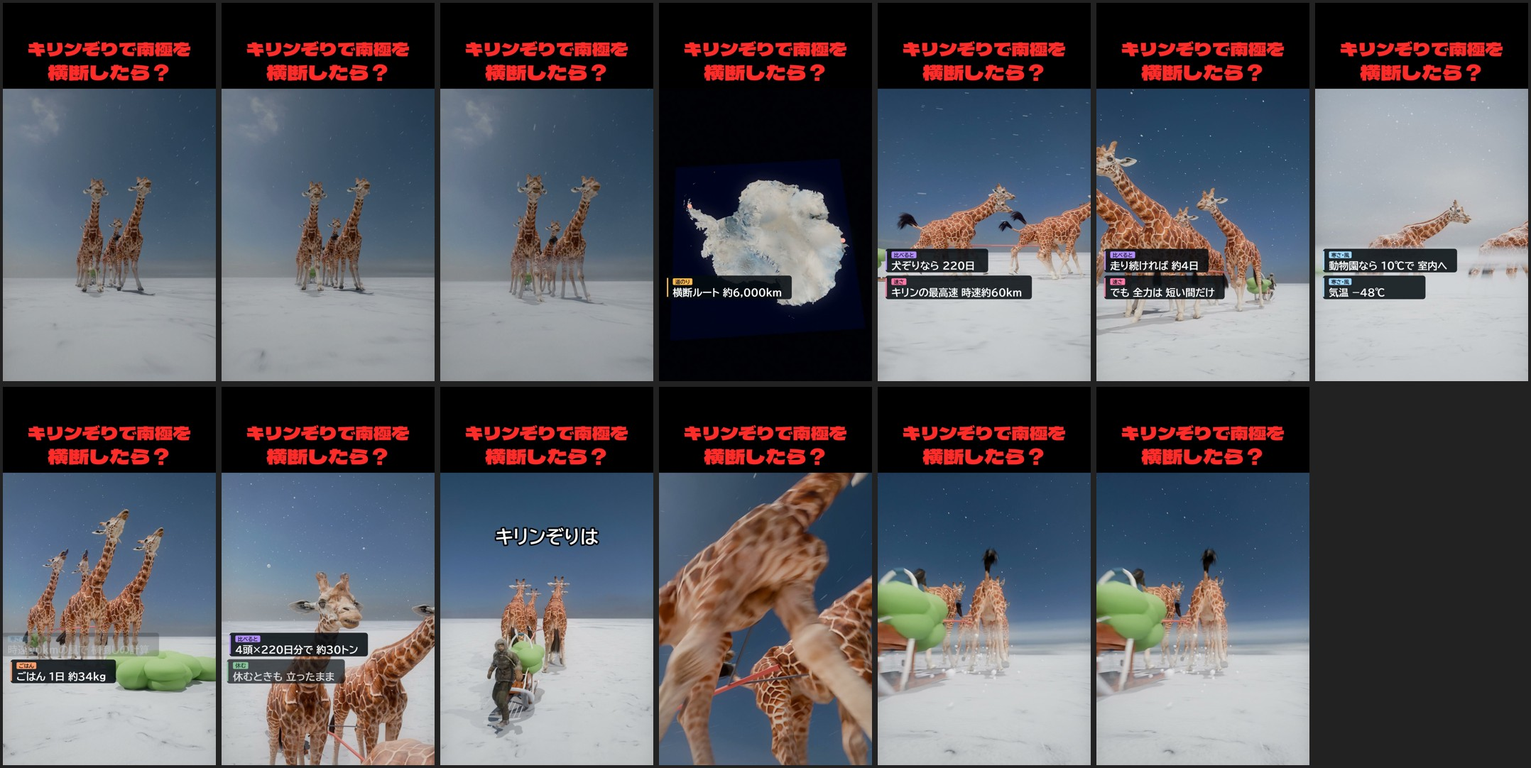
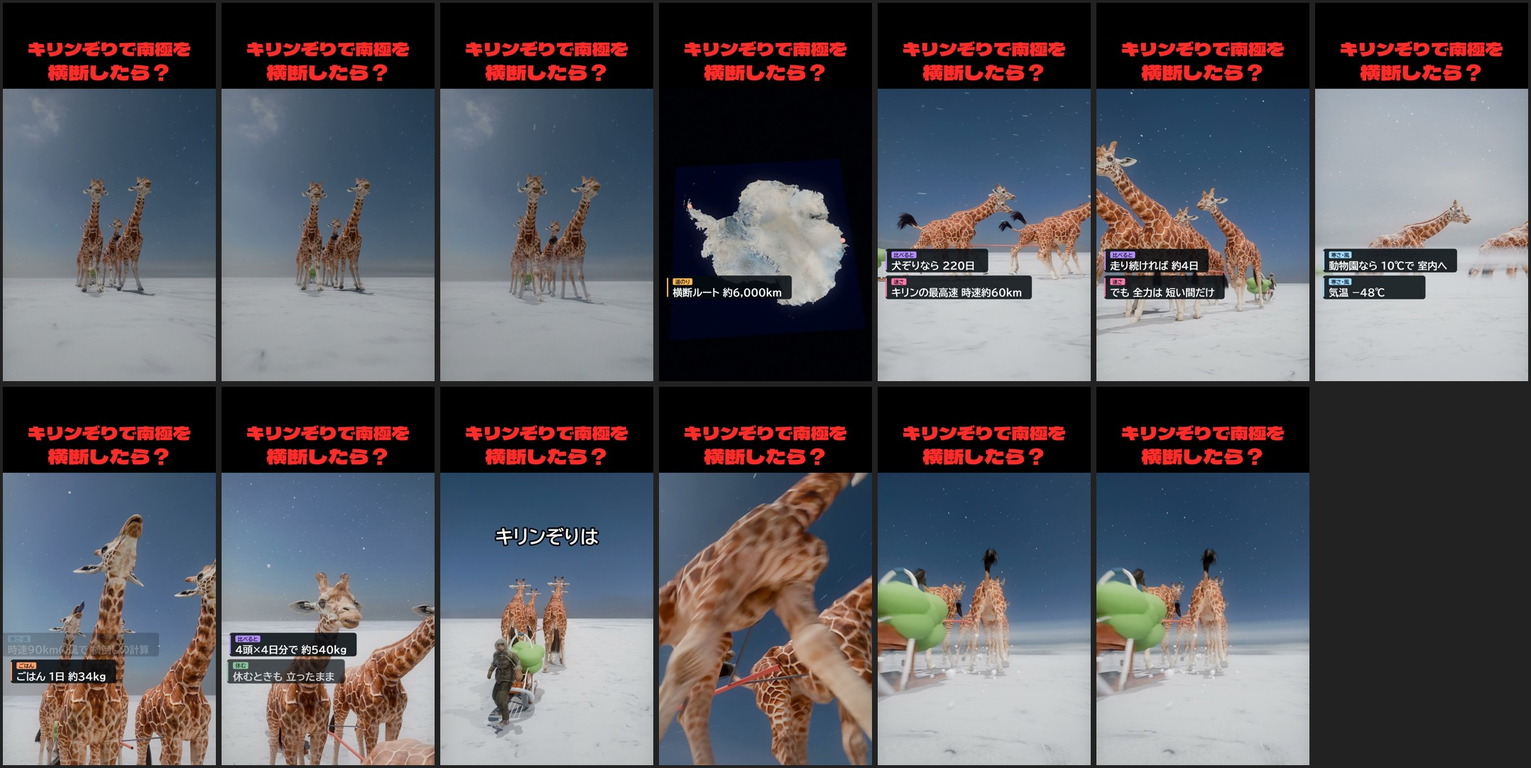
pilot_058 v2：エサを 4 頭×4 日分（約 540kg）に直し、葉っぱの山で見せる
Claude-Session: https://claude.ai/code/session_01VGYENiSWVu6GBGzfbDjQdM

Changed region(s): [[0.0, 0.671, 0.2486, 1.0], [0.0, 0.61, 0.0311, 0.671]]

diff --git a/anatomy_room/production/pilot_058/assets/plan.js b/anatomy_room/production/pilot_058/assets/plan.js
@@ -1,1 +1,1 @@
-window.PLAN = {"shots": [{"id": "l00", "dur": 3.6, "what": "0 秒目：地吹雪の中、正面の低い位置へ迫ってくる 4 頭のキリンが引くそり", "ev": [[0.3, "キリンぞりで 南極を横断したら？", "S"]]}, {"id": "l01", "dur": 5.0, "what": "南極大陸の衛星画像（NASA Blue Marble、PD）に横断ルート", "ev": [[0.3, "横断ルート 約6,000km", "D"], [2.6, "犬ぞりなら 220日", "C"]]}, {"id": "l02", "dur": 5.0, "what": "速さ：横から並走、全力で駆けるキリン", "ev": [[0.4, "キリンの最高速 時速約60km", "V"], [2.4, "走り続ければ 約4日", "C"]]}, {"id": "l03", "dur": 5.0, "what": "でも：歩きに変わるキリン、寒さ", "ev": [[0.4, "でも 全力は 短い間だけ", "V"], [2.4, "動物園なら 10℃で 室内へ", "W"]]}, {"id": "l04", "dur": 5.4, "what": "厳しさ：曇り空の地吹雪、高い首が風を受ける", "ev": [[0.4, "気温 −48℃", "W"], [2.5, "時速90kmの風で 横倒しの計算", "W"]]}, {"id": "l05", "dur": 5.4, "what": "ごはん：前におろした葉っぱの山と、上を向いて食べようとするキリン（木がない）", "ev": [[0.4, "ごはん 1日 約34kg", "F"], [2.0, "南極に 木は 1本もない", "F"], [3.6, "4頭×220日分で 約30トン", "C"]]}, {"id": "l06", "dur": 5.6, "what": "癒やし：休憩。立ったまま口をもぐもぐ（反すう）するキリンに雪が積もる", "ev": [[0.5, "休むときも 立ったまま", "Z"], [2.8, "長い首に 雪が 積もっていく", "Z"]]}, {"id": "l07", "dur": 4.4, "what": "結果（大きな札）", "card": "result"}, {"id": "l08", "dur": 2.0, "what": "冒頭に戻る（ループ）"}], "sim": {"route_km": 6000, "dog_days": 220, "vmax": 60, "days_at_vmax": 4.166666666666667, "food": 34, "n": 4, "food_total_t": 29.92, "zoo_c": 10, "tmin": -48, "colder": 58, "rho": 1.0985728107948551, "tip_kmh": 90.28424292885217}};
+window.PLAN = {"shots": [{"id": "l00", "dur": 3.6, "what": "0 秒目：地吹雪の中、正面の低い位置へ迫ってくる 4 頭のキリンが引くそり", "ev": [[0.3, "キリンぞりで 南極を横断したら？", "S"]]}, {"id": "l01", "dur": 5.0, "what": "南極大陸の衛星画像（NASA Blue Marble、PD）に横断ルート", "ev": [[0.3, "横断ルート 約6,000km", "D"], [2.6, "犬ぞりなら 220日", "C"]]}, {"id": "l02", "dur": 5.0, "what": "速さ：横から並走、全力で駆けるキリン", "ev": [[0.4, "キリンの最高速 時速約60km", "V"], [2.4, "走り続ければ 約4日", "C"]]}, {"id": "l03", "dur": 5.0, "what": "でも：歩きに変わるキリン、寒さ", "ev": [[0.4, "でも 全力は 短い間だけ", "V"], [2.4, "動物園なら 10℃で 室内へ", "W"]]}, {"id": "l04", "dur": 5.4, "what": "厳しさ：曇り空の地吹雪、高い首が風を受ける", "ev": [[0.4, "気温 −48℃", "W"], [2.5, "時速90kmの風で 横倒しの計算", "W"]]}, {"id": "l05", "dur": 5.4, "what": "ごはん：上を向いて食べようとするキリン（木がない）から引いて、4 頭×4 日分のエサの山（約 540 kg、人の背より高い）", "ev": [[0.4, "ごはん 1日 約34kg", "F"], [2.0, "南極に 木は 1本もない", "F"], [3.4, "4頭×4日分で 約540kg", "C"]]}, {"id": "l06", "dur": 5.6, "what": "癒やし：休憩。立ったまま口をもぐもぐ（反すう）するキリンに雪が積もる", "ev": [[0.5, "休むときも 立ったまま", "Z"], [2.8, "長い首に 雪が 積もっていく", "Z"]]}, {"id": "l07", "dur": 4.4, "what": "結果（大きな札）", "card": "result"}, {"id": "l08", "dur": 2.0, "what": "冒頭に戻る（ループ）"}], "sim": {"route_km": 6000, "dog_days": 220, "vmax": 60, "days_at_vmax": 4.166666666666667, "food": 34, "n": 4, "food_total_kg": 544, "zoo_c": 10, "tmin": -48, "colder": 58, "rho": 1.0985728107948551, "tip_kmh": 90.28424292885217}};

diff --git a/anatomy_room/production/pilot_058/renderer.html b/anatomy_room/production/pilot_058/renderer.html
@@ -89,7 +89,7 @@ function shoutCard(t, a, l1, l2, c1, c2, sub) {
 }
 { const _du = drawUI; drawUI = function (t, name) { titleBar(); if (name === "open") return;
   const k = curId(t); eventsUI(t);
-  if (k === "l07") shoutCard(t, CUE.l07 + .15, "キリンぞりは", "寒さに弱すぎる", "#FFFFFF", "#FFD23C", ["全力なら 約4日 でも続かない", "ごはんは 約30トン"]); }; }
+  if (k === "l07") shoutCard(t, CUE.l07 + .15, "キリンぞりは", "寒さに弱すぎる", "#FFFFFF", "#FFD23C", ["全力なら 約4日 でも続かない", "4日分のごはんで 約540kg"]); }; }
 
 function buildMood() { MOOD = [[0, { cool: .0, sat: 1.05, vig: .22 }]]; }
 function thumb() { CUE = CUE || {}; CUE.t0 = 0; bg.fillStyle = "#0c1018"; bg.fillRect(0, 0, W, H); S.group(() => { text(ui, "キリンぞりで南極を", 540, 450, 96, "#EAF2F8", { weight: 700, stroke: "#05080c", sw: 14 }); text(ui, "横断したら？", 540, 600, 110, "#FFD23C", { weight: 700, stroke: "#05080c", sw: 16 }); }); }

diff --git a/anatomy_room/production/pilot_058/blender/scene.py b/anatomy_room/production/pilot_058/blender/scene.py
@@ -370,20 +370,48 @@ def a_l04(u, t, f):
     cam.look(Vector((-2.0 + 2.0 * u, -2.5, gz(-2, -2.5) + 1.4)), Vector((x + 4.0, 12.0, gz(x, 12) + 3.0)), 30)
 
 
+HEAP = (3.6, 12.5, 2.4, 2.1)     # 4 頭×4 日分のエサ（約 540 kg）の山：中心 x・y、半径、高さ（かさ 約 13 m³。葉のついた枝はすき間が多い、仮定）
+
+
+def leaf_mats():
+    ms = []
+    for k, c in enumerate(((.05, .16, .03), (.08, .22, .04), (.12, .26, .05), (.17, .25, .06))):
+        m = mat(f"leaf{k}", c, .6); b = m.node_tree.nodes.get("Principled BSDF"); t = m.node_tree
+        if b:                                                                  # 葉の細かい凹凸
+            nz = t.nodes.new("ShaderNodeTexNoise"); nz.inputs["Scale"].default_value = 60.0; bp = t.nodes.new("ShaderNodeBump"); bp.inputs["Strength"].default_value = .6
+            t.links.new(nz.outputs["Fac"], bp.inputs["Height"]); t.links.new(bp.outputs["Normal"], b.inputs["Normal"])
+        if b:
+            b.inputs["Subsurface Weight"].default_value = .15
+        ms.append(m)
+    return ms
+
+
+def heap():
+    """葉っぱの山：枝の束（つぶれた球）を円すいに積み、表面に葉っぱの板をびっしり"""
+    cx, cy, R, H = HEAP; r = np.random.default_rng(21); ms = leaf_mats(); z0 = gz(cx, cy)
+    xf, mi = [], []
+    for k in range(420):                                                    # 枝の束
+        a = r.uniform(0, 6.283); q = np.sqrt(r.uniform(0, 1)); rr = R * q; h = H * (1 - q) * r.uniform(.75, 1.0)
+        xf.append((cx + rr * math.cos(a), cy + rr * math.sin(a), z0 + h * r.uniform(.85, 1.0) + .1, r.uniform(.3, .5), r.uniform(.25, .45), r.uniform(.15, .28), r.uniform(0, 6.28), r.uniform(-.3, .3), r.uniform(-.3, .3))); mi.append(k % 4)
+    import common as _c; tv, tf = _c._template("ico"); ob = instances("bundles", tv, tf, xf, ms, np.array(mi)); ob.data.polygons.foreach_set("use_smooth", np.ones(len(ob.data.polygons), bool))
+    xf, mi = [], []
+    for k in range(12000):                                                  # 表面の葉っぱ
+        a = r.uniform(0, 6.283); q = np.sqrt(r.uniform(0, 1)) * 1.05; rr = R * min(q, 1.05); h = max(0.0, H * (1 - q)) + r.uniform(0, .15)
+        xf.append((cx + rr * math.cos(a), cy + rr * math.sin(a), z0 + h + .1, .13, .065, .004, r.uniform(0, 6.28), r.uniform(-1.2, 1.2), r.uniform(-1.2, 1.2))); mi.append(r.integers(0, 4))
+    instances("leaves", CUBE_V, CUBE_F, xf, ms, np.array(mi))
+
+
 def s_l05():
-    plateau(sun=(20., 330.), haze_k=.5); S["spd"] = 0.0; team(kind="eat", seed=6, musher=False)
-    leaf = MATS.get("leafbale") or mat("leafbale", (.16, .32, .08), .85); r2 = np.random.default_rng(9)
-    for k in range(22):                                                      # 前におろした葉っぱの山
-        bm = bmesh.new(); bmesh.ops.create_icosphere(bm, subdivisions=2, radius=1.0); o = mesh_obj(f"pile{k}", bm, [leaf])
-        x, y = r2.uniform(-1.6, 1.6), r2.uniform(10.5, 13.0); o.location = (x, y, gz(x, y) + r2.uniform(.1, .5)); o.scale = (r2.uniform(.35, .6), r2.uniform(.35, .6), r2.uniform(.25, .4))
-        for p_ in o.data.polygons:
-            p_.use_smooth = True
-    flakes(2000, (-12, 12, -12, 12, 0, 9), (.8, .3), .6, (.005, .012), 9)
+    plateau(sun=(20., 330.), haze_k=.5); S["spd"] = 0.0; team(kind="eat", seed=6, musher=False); heap()
+    mn = imp(os.path.join(SKF, "explorer", "scene.gltf")); mh = fit(mn, height=1.75, axis=2); x, y = HEAP[0] + 2.5, HEAP[1] - 1.5
+    mh.location = (x, y, gz(x, y)); mh.rotation_euler = (0, 0, 2.4)                                  # 大きさ比べの人（身長 1.75 m）
+    flakes(2000, (-12, 14, -12, 22, 0, 9), (.8, .3), .6, (.005, .012), 9)
 
 
 def a_l05(u, t, f):
-    team_key(f, 0, 0); e = ease(u)
-    cam.look(Vector((5.5 - 1.0 * e, 17.5 - 1.0 * e, gz(5, 17) + 1.3)), Vector((0, 8.5, gz(0, 9) + 1.8 + .8 * e)), 26)         # 前から：葉っぱの山と、食べるキリン
+    team_key(f, 0, 0); e = ease(smooth(.15, .85, u))
+    p0, a0 = Vector((2.2, 14.5, 2.6)), Vector((0, 6.5, 4.6)); p1, a1 = Vector((7.6, 18.6, .9)), Vector((4.6, 11.0, 1.6))
+    cy = gz(p0.x, p0.y); cam.look(p0.lerp(p1, e) + Vector((0, 0, cy)), a0.lerp(a1, e) + Vector((0, 0, cy)), 30 - 6 * e)   # 上を向いて食べるキリンから、引いてエサの山へ
 
 
 def s_l06():

diff --git a/anatomy_room/production/pilot_058/plan.py b/anatomy_room/production/pilot_058/plan.py
@@ -21,7 +21,7 @@ SHOTS = [
     dict(id="l02", dur=5.0, what="速さ：横から並走、全力で駆けるキリン", ev=[[.4, f"キリンの最高速 時速約{O['vmax']}km", "V"], [2.4, f"走り続ければ 約{O['days_at_vmax']:.0f}日", "C"]]),
     dict(id="l03", dur=5.0, what="でも：歩きに変わるキリン、寒さ", ev=[[.4, "でも 全力は 短い間だけ", "V"], [2.4, f"動物園なら {O['zoo_c']}℃で 室内へ", "W"]]),
     dict(id="l04", dur=5.4, what="厳しさ：曇り空の地吹雪、高い首が風を受ける", ev=[[.4, f"気温 −{abs(O['tmin'])}℃", "W"], [2.5, f"時速{round(O['tip_kmh'], -1):.0f}kmの風で 横倒しの計算", "W"]]),
-    dict(id="l05", dur=5.4, what="ごはん：前におろした葉っぱの山と、上を向いて食べようとするキリン（木がない）", ev=[[.4, f"ごはん 1日 約{O['food']}kg", "F"], [2.0, "南極に 木は 1本もない", "F"], [3.6, f"{O['n']}頭×{O['dog_days']}日分で 約{O['food_total_t']:.0f}トン", "C"]]),
+    dict(id="l05", dur=5.4, what="ごはん：上を向いて食べようとするキリン（木がない）から引いて、4 頭×4 日分のエサの山（約 540 kg、人の背より高い）", ev=[[.4, f"ごはん 1日 約{O['food']}kg", "F"], [2.0, "南極に 木は 1本もない", "F"], [3.4, f"{O['n']}頭×{O['days_at_vmax']:.0f}日分で 約{round(O['food_total_kg'], -1):.0f}kg", "C"]]),
     dict(id="l06", dur=5.6, what="癒やし：休憩。立ったまま口をもぐもぐ（反すう）するキリンに雪が積もる", ev=[[.5, "休むときも 立ったまま", "Z"], [2.8, "長い首に 雪が 積もっていく", "Z"]]),
     dict(id="l07", dur=4.4, what="結果（大きな札）", card="result"),
     dict(id="l08", dur=2.0, what="冒頭に戻る（ループ）"),

diff --git a/anatomy_room/production/pilot_058/production_script.py b/anatomy_room/production/pilot_058/production_script.py
@@ -163,7 +163,7 @@ EP = standard.config({
     "scenes": [(f"{i} {s['id']}", s["id"] if i else None, SHOTS[i + 1]["id"] if i + 1 < len(SHOTS) else "endcard", "", "") for i, s in enumerate(SHOTS)]
               + [(f"{len(SHOTS)} 暗転（エンディングなし）", "endcard", None, "", "")],
     "plan_notes": ["## 演出の方針", "", "- もしも設計の既定（タイトルの帯つき、画面は昼）。ナレーション・BGM なし。pilot_057（犬ぞり、220 日）の続きで、キリン 4 頭がそりを引いたら。",
-                   "- 最高速 時速約 60 km なら約 4 日、でも全力は短い間だけ。動物園では 10℃ で室内へ、−48℃。背が高く、時速約 90 km の横風で倒れる計算（倒れる姿は描かない）。ごはん 1 日約 34 kg、南極に木はない、4 頭×220 日で約 30 トン。休むときも立ったまま。閃光なし。"],
+                   "- 最高速 時速約 60 km なら約 4 日、でも全力は短い間だけ。動物園では 10℃ で室内へ、−48℃。背が高く、時速約 90 km の横風で倒れる計算（倒れる姿は描かない）。ごはん 1 日約 34 kg、南極に木はない、4 頭×4 日分で約 540 kg（葉っぱの山で見せる）。休むときも立ったまま。閃光なし。"],
 })
 
 if __name__ == "__main__":

diff --git a/anatomy_room/HANDOFF.md b/anatomy_room/HANDOFF.md
@@ -6,7 +6,7 @@
 
 - **pilot_051「猫 何匹で、新幹線は動く？」完成（2026-11-12 17:45）**：`production/pilot_051/reverse_051_cats_shinkansen.mp4`（56.6 秒、142 MB のため git に入れない）。QA の NG は字幕・共通エンディングだけ。説明文 `youtube_metadata.md`、素材 `scripts/pilot_051/assets.md`。3D は `blender/scene.py`（track・train・crowd・cat）、Blender の書き出しは 1 コマ約 14 秒で約 7 時間。l06 の終わりの空撮は田んぼの区画が人工的に見える（052 の課題）。**2026-11-14 19:00 に予約公開**（050 は 11/13 19:00）。スマホ用の試写ページ https://claude.ai/artifact/UcebGY2ERqAVB4UCNQ7neh （`work/preview/`）。サムネイル・自己レビューはまだ。
 - **【相談】書き出しの速さはユーザーと改めて検討する（2026-11-12、051 は 1 コマ約 15 秒で約 6 時間かかった。メモリ `feedback-time-budget` に実測）**。
-- **pilot_058「キリンぞりで南極を横断したら？」完成（2026-11-16 夜、もしも設計、057 の続き）**：`production/pilot_058/reverse_058_giraffe_sled.mp4`（42.5 秒）。ユーザー「犬ぞりじゃなくてキリンぞりにしたら？で動画作ってみて」。057 の舞台（scene.py の plateau・地図・地吹雪）を使い回し、キリンは Sketchfab "Reticulated Giraffe - Rigged & Animated"（Animal Animator、CC BY、走る・歩く・反すう・食べる、slot は 1 つ）を 4 頭。数字は scripts/pilot_058/sim/giraffe.py（最高速 60 km/h で約 4 日、10℃ で室内へ、横風 時速約 90 km で倒れる計算〔仮定つき〕、エサ 34 kg×4×220 ＝約 30 t）。HDRI の太陽が画面に入るショットは plateau(rot=180)。準備 約 50 分＋書き出し。queue.json には未登録。
+- **pilot_058「キリンぞりで南極を横断したら？」完成（2026-11-16 夜、もしも設計、057 の続き）**：`production/pilot_058/reverse_058_giraffe_sled.mp4`（42.5 秒）。ユーザー「犬ぞりじゃなくてキリンぞりにしたら？で動画作ってみて」。057 の舞台（scene.py の plateau・地図・地吹雪）を使い回し、キリンは Sketchfab "Reticulated Giraffe - Rigged & Animated"（Animal Animator、CC BY、走る・歩く・反すう・食べる、slot は 1 つ）を 4 頭。数字は scripts/pilot_058/sim/giraffe.py（最高速 60 km/h で約 4 日、10℃ で室内へ、横風 時速約 90 km で倒れる計算〔仮定つき〕、エサ 34 kg×4 頭×4 日＝約 540 kg、ユーザーの指示で 220 日分から直し、l05 で人の背より高い葉っぱの山を見せる）。HDRI の太陽が画面に入るショットは plateau(rot=180)。準備 約 50 分＋書き出し。queue.json には未登録。
 - **pilot_057「犬ぞりで南極を横断したら？」完成（2026-11-16 夕方、通常のもしも設計）**：`production/pilot_057/reverse_057_dogsled.mp4`（42.9 秒、ナレーション・BGM なし）。ユーザーの指示「南極を犬ぞりで横断したら？…大きさと厳しさ、犬の健気さと可愛さを全力のCGで」。答えは 1989–90 国際南極横断隊（約 6,000 km・220 日、−48℃・時速 160 km の風）。走る犬は Sketchfab "Dog animated"（MAXDESIGN-3D、CC BY）をハスキーの毛色に塗り替えて 10 頭複製（glTF の動きは Bip001 と骨の 2 つの slot：NLA は両方に、slot を合わせないと寝た形になる。毛色の塗り分けは Generated の Z、つやを下げないと雪の照り返しで白く見えた、露出 −0.45）。休憩は "Wolf in the cold"（David Florez、CC BY）の座る犬だけを取り出し雪を積もらせた（丸まって眠る模型は質が足りず不採用）。地図は NASA Blue Marble の南極（PD）。1 コマ約 3.5 秒。最初のコマがやや柔らかい（video_qa「最初のコマ」要確認）。queue.json には未登録（ユーザーの感想待ち。次の空き枠は 11/19 19:00）。作業は約 5 時間で見込み超え。
 - **pilot_056「頭のプロペラで、空を飛んだら？」完成（2026-11-16 10:00、通常のもしも設計）**：`production/pilot_056/reverse_056_head_propeller.mp4`（41.7 秒、ナレーション・BGM なし）。ユーザーが 5 案から 1（頭のプロペラ）を選んだ。作品名・キャラクター・道具の名前は出さない。運動量理論（scripts/pilot_056/sim/rotor.py）：体重 35 kg・直径 20 cm → 足もとの風 時速約 490 km（猛烈な台風の 2.5 倍）、約 64 馬力（軽自動車の上限）、反動で体が逆に回る（1 秒後に毎秒約 8 回転〔7.5〕、3 秒後 23 回転）。3D は 055 の Puppet＋空き地・土管・Sketchfab の車（"Small price car" Oliv1e、CC BY）、砂ぼこりのカードは二次光線から隠して 1 コマ約 6 秒。l07 の結果札がはみ出し（textcheck）→ 文を短くした。queue.json には未登録（ユーザーの感想待ち。次の空き枠は 11/18 19:00）。
 - **pilot_055「10万ボルトの電撃が、現実にあったら？」完成（2026-11-15 12:55、通常のもしも設計に戻した回）**：`production/pilot_055/reverse_055_100kv.mp4`（46.3 秒、ナレーション・BGM なし）。ユーザーの指示「漫画・アニメの必殺技が現実にあったら」→ ポケモンの 10 万ボルトを選んだ（作品名・キャラクター・技の絵は出さず、電圧の数字として。電気を出すのは黄色い服のピクトグラム）。空気は 1 cm に約 3 万 V で火花（schoolphysics 本文）→ 届くのは約 3 cm、5 m 先には約 1,500 万 V（ユーザーの追加の指示で l05b「もし 1,500 万ボルトなら」）。3D は自作の関節つきピクトグラム（Puppet）・木の的・光る折れ線の電気・Poly Haven の木、1 コマ約 2.5 秒。的の親子付けで位置が 2 倍になるずれ（view_layer.update を先に）を直した。queue.json には未登録（ユーザーの感想待ち）。**2026-11-15 夜の直し**：ユーザー「電撃を放つのは人じゃなくて黄色い小さい犬みたいな動物に」「タイトル帯のフォントが崩れてる」→ Sketchfab の "Shiba Inu Doggy"（aaadragon、CC BY）を黄色にして鼻先から火花（赤いほっぺ・稲妻のしっぽなし）。帯の崩れは make_assets.py の帯の字が 053 の題名のまま固定だったため（renderer.html の title から拾うように直した。054 も同じだった）。Blender は 1 プロセスで複数ショットを描くと犬の読み込み直しで止まったので、ショットごとに別のプロセスで描いた。NLA の 2 本目の strip は Blender 5 で action_slot を付けないと元の形（寝た形）になる。書き出しのあと接続が切れて PC が止まり、mp4・音声の wav・検査画像の一部が 0 で埋まって壊れた（3D のコマは無事）→ rv --full で作り直し、全体を ffmpeg で読んでエラーなしを確認。

diff --git a/anatomy_room/production/pilot_058/qc_report.md b/anatomy_room/production/pilot_058/qc_report.md
@@ -1,6 +1,6 @@
 # pilot_058 品質検証の記録
 
-対象：`reverse_058_giraffe_sled.mp4`（37.6 MB）
+対象：`reverse_058_giraffe_sled.mp4`（38.2 MB）
 
 ## ストリーム
 
@@ -16,7 +16,7 @@
 
 - 積分ラウドネス：-14.4 LUFS（目標 −14 LUFS）
 - ラウドネスレンジ：9.0 LU
-- トゥルーピーク：0.3 dBFS（目標 −1.0 dBTP 以下）
+- トゥルーピーク：-0.7 dBFS（目標 −1.0 dBTP 以下）
 
 ## 無音区間（−45 dB 未満が 0.8 秒以上）
 
@@ -31,10 +31,10 @@
 | L02 | ナレーション | 0:08.6 | -19.3 | -3.4 |
 | L03 | ナレーション | 0:13.6 | -17.7 | -3.8 |
 | L04 | ナレーション | 0:18.6 | -15.1 | -2.0 |
-| L05 | ナレーション | 0:24.0 | -23.7 | -3.1 |
-| L06 | ナレーション | 0:29.4 | -22.3 | -1.2 |
+| L05 | ナレーション | 0:24.0 | -23.7 | -3.2 |
+| L06 | ナレーション | 0:29.4 | -22.3 | 0.0 |
 | L07 | ナレーション | 0:35.0 | -17.8 | -3.5 |
-| L08 | ナレーション | 0:39.4 | -14.7 | -1.7 |
+| L08 | ナレーション | 0:39.4 | -14.7 | -1.8 |
 
 ## 字幕の表示時間
 
@@ -86,14 +86,14 @@
 
 ## 明るさと動き
 
-- 平均輝度：**98.1 / 255**（第 1 話 36.6、第 2 話 185.6）。最小 16.0。輝度 80 以上の秒 37/43
-- 1 秒ごとの輝度：97 95 93 97 44 46 48 54 56 102 105 104 107 108 98 98 95 95 96 138 140 142 134 136 107 107 103 101 99 105 102 106 101 105 106 110 109 109 109 105 87 106 16
-- 動き：0.5 秒ごとのコマの差の平均 11.84。3 秒以上ほぼ止まっている区間：なし（最長 0.0 秒）
+- 平均輝度：**97.3 / 255**（第 1 話 36.6、第 2 話 185.6）。最小 16.0。輝度 80 以上の秒 37/43
+- 1 秒ごとの輝度：97 95 93 97 44 46 48 54 56 102 105 104 107 108 98 98 95 95 96 138 140 142 134 136 93 94 89 100 104 105 102 106 101 105 106 110 109 109 109 105 87 106 16
+- 動き：0.5 秒ごとのコマの差の平均 12.55。3 秒以上ほぼ止まっている区間：なし（最長 0.0 秒）
 
 ## 文字の自動検査（`render_frames.js --textcheck`、0.1 秒ごと）
 
 - 検査したコマ：425。安全領域 x 40〜1040・y 170〜1650、右側のボタン列（x≥950・y 880〜1650）を避ける。文字の面積の 10% 以上がオモテにかぶるものも検出
-- 使った文字 100 種類のうち、フォント（Noto Sans CJK JP）にない文字：未確認（fontconfig がない環境）
+- 使った文字 101 種類のうち、フォント（Noto Sans CJK JP）にない文字：未確認（fontconfig がない環境）
 - 見つかった問題：0 種類（ほかに 0.3 秒以下の一時的なもの 0 種類）
 
 

diff --git a/anatomy_room/scripts/pilot_058/fact_check.md b/anatomy_room/scripts/pilot_058/fact_check.md
@@ -24,7 +24,8 @@
 | 画面の文 | 計算 | 種類 |
 |---|---|---|
 | 走り続ければ 約4日 | 6,000 ÷ 60 ÷ 24 ＝ 4.2 日（休まず全力の場合） | 計算 |
-| 4頭×220日分で 約30トン | 34 kg × 4 × 220 ＝ 29.9 t | 計算 |
+| 4頭×4日分で 約540kg | 34 kg × 4 頭 × 4 日（全力で走り続けた場合の日数）＝ 544 kg。2026-11-16 ユーザーの指示で 220 日分から 4 日分に変更 | 計算 |
+| 画面の葉っぱの山 | 半径 2.4 m・高さ 2.1 m の円すい（かさ 約 13 m³）。葉のついた枝はすき間が多いので 1 m³ あたり 約 40 kg と仮定 | 演出（仮定） |
 | 時速90kmの風で 横倒しの計算 | 空気の密度 1.10 kg/m³（標高 約 2,800 m・−48℃）、横から見た面積 3.7 m²、抗力係数 1.0、力のかかる高さ 2.3 m、体重 1,200 kg、左右の脚の間の半分 0.25 m。倒す力のモーメント＝体重で戻すモーメントになる風速 25 m/s ＝ 時速 約 90 km | 計算（仮定つき） |
 
 ## 演出（事実ではない所）

diff --git a/anatomy_room/production/pilot_058/scene_plan.md b/anatomy_room/production/pilot_058/scene_plan.md
@@ -5,7 +5,7 @@
 ## 演出の方針
 
 - もしも設計の既定（タイトルの帯つき、画面は昼）。ナレーション・BGM なし。pilot_057（犬ぞり、220 日）の続きで、キリン 4 頭がそりを引いたら。
-- 最高速 時速約 60 km なら約 4 日、でも全力は短い間だけ。動物園では 10℃ で室内へ、−48℃。背が高く、時速約 90 km の横風で倒れる計算（倒れる姿は描かない）。ごはん 1 日約 34 kg、南極に木はない、4 頭×220 日で約 30 トン。休むときも立ったまま。閃光なし。
+- 最高速 時速約 60 km なら約 4 日、でも全力は短い間だけ。動物園では 10℃ で室内へ、−48℃。背が高く、時速約 90 km の横風で倒れる計算（倒れる姿は描かない）。ごはん 1 日約 34 kg、南極に木はない、4 頭×4 日分で約 540 kg（葉っぱの山で見せる）。休むときも立ったまま。閃光なし。
 
 ## シーン一覧
 

diff --git a/anatomy_room/production/pilot_058/youtube_metadata.md b/anatomy_room/production/pilot_058/youtube_metadata.md
@@ -15,7 +15,7 @@
 ・キリンの最高速は時速約60km。走り続ければ約4日…でも全力は短い間しか続かない
 ・動物園では10℃を下回ると室内へ。南極は−48℃
 ・背が高いので、時速約90kmの横風で倒れる計算（南極では時速160kmの風も）
-・ごはんは1日約34kg。南極に木は1本もないので、4頭×220日分で約30トンを運ぶことに
+・ごはんは1日約34kg。南極に木は1本もないので、4頭×4日分でも約540kgの葉っぱを運ぶことに
 
 ▼ ご注意
 ・架空の計算です。キリンはCGで、実際に南極へ連れて行くことはできません。
